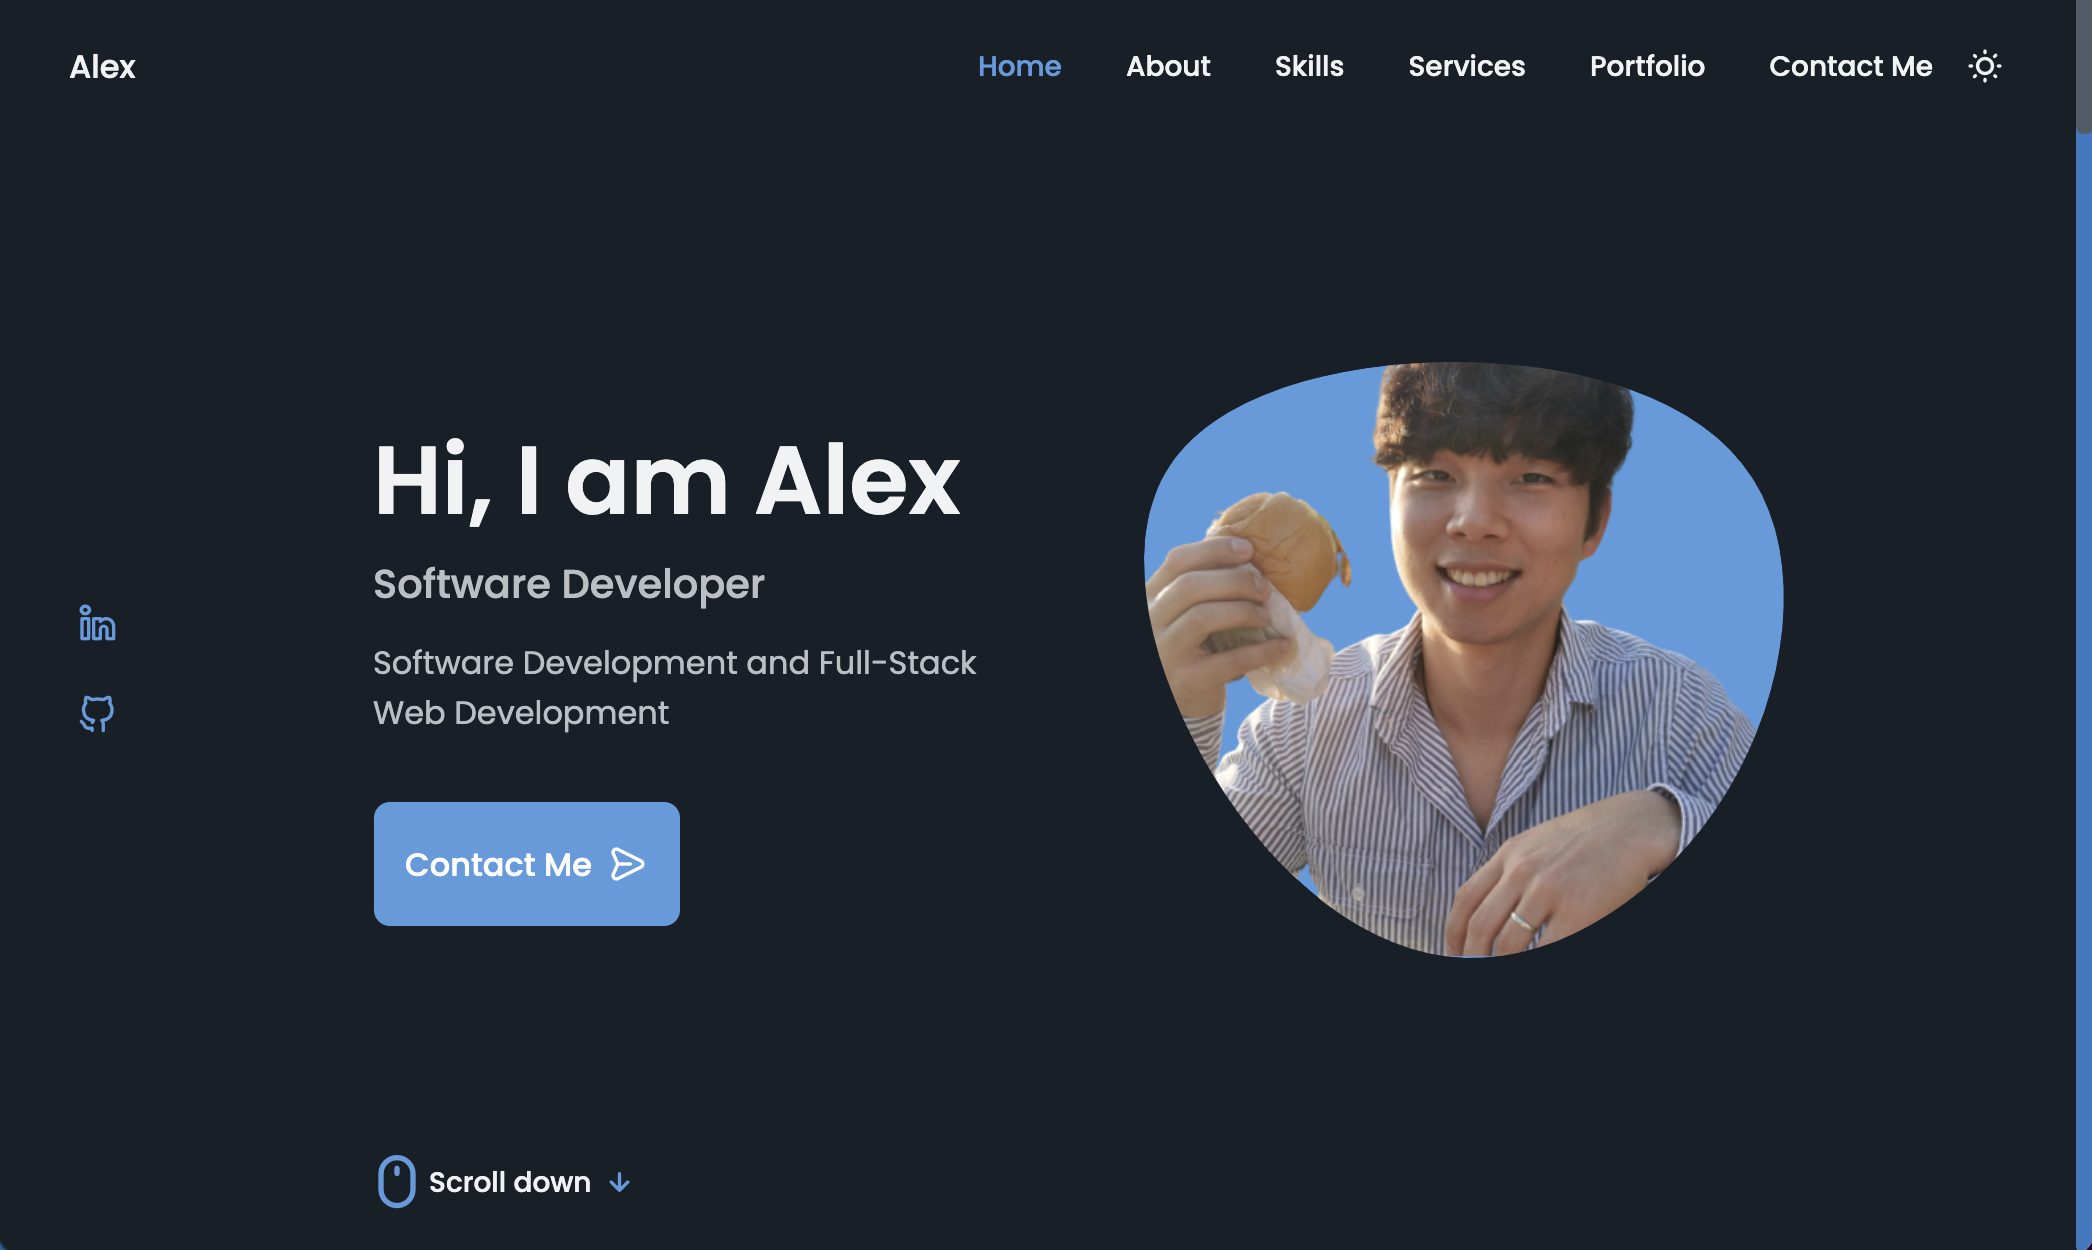
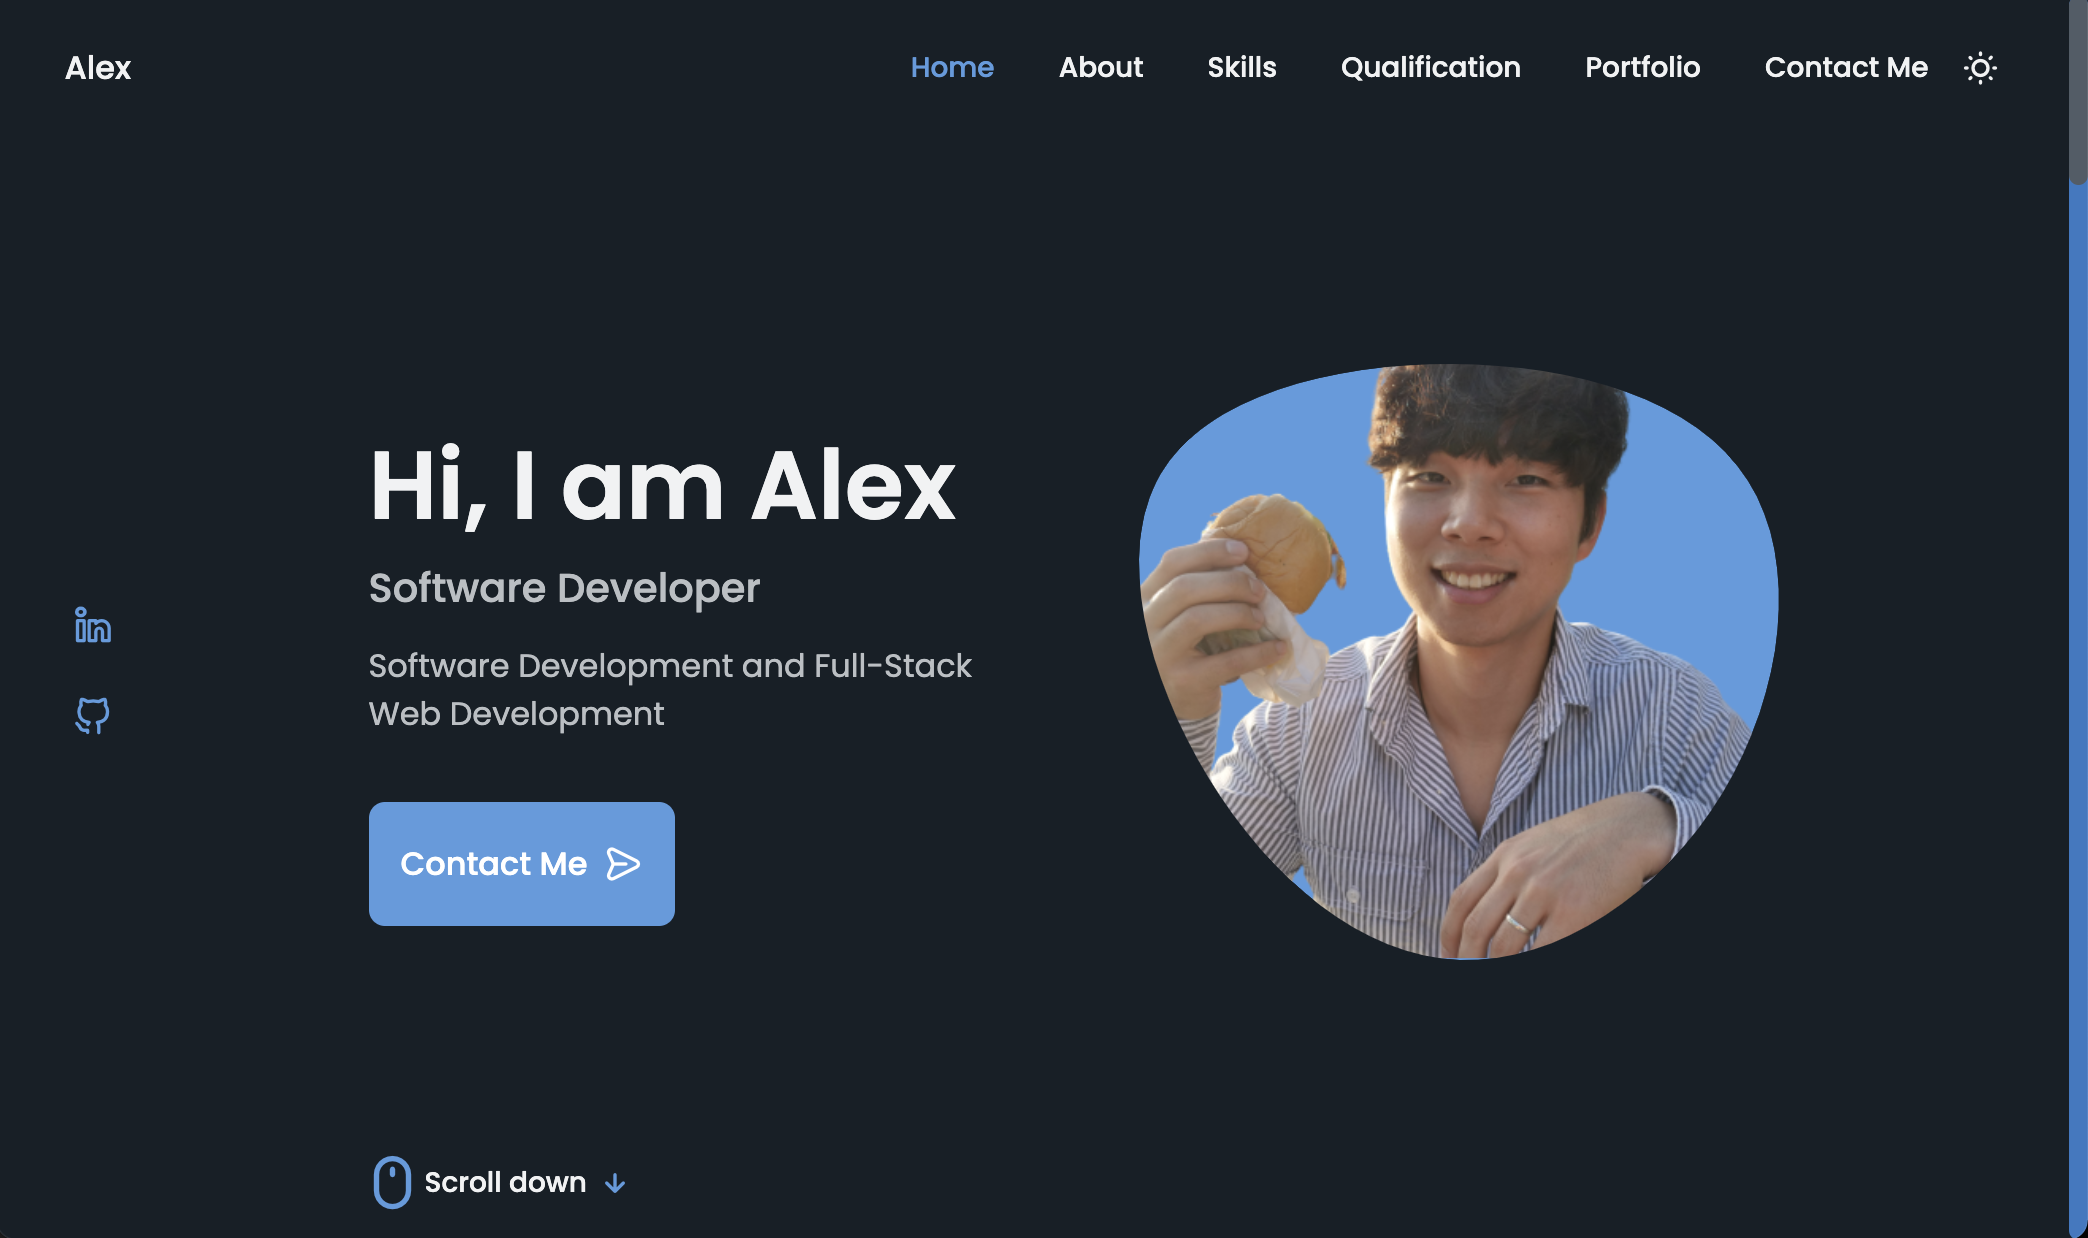
Bug fixes, changes and updates.

diff --git a/index.html b/index.html
@@ -42,8 +42,8 @@
               </a>
             </li>
             <li class="nav__item">
-              <a href="#services" class="nav__link">
-                <i class="uil uil-briefcase-alt nav__icon"></i> Services
+              <a href="#qualification" class="nav__link">
+                <i class="uil uil-briefcase-alt nav__icon"></i> Qualification
               </a>
             </li>
             <li class="nav__item">
@@ -153,7 +153,7 @@
             </p>
             <div class="about__info">
               <div>
-                <span class="about__info-title">02+ </span>
+                <span class="about__info-title">3+ </span>
                 <span class="about__info-name"
                   >years <br />
                   experience
@@ -161,17 +161,17 @@
               </div>
 
               <div>
-                <span class="about__info-title">10+ </span>
+                <span class="about__info-title">15+ </span>
                 <span class="about__info-name"
                   >Completed <br />
                   project
                 </span>
               </div>
               <div>
-                <span class="about__info-title">02+ </span>
+                <span class="about__info-title">0 </span>
                 <span class="about__info-name"
                   >Companies <br />
-                  worked
+                  worked :(
                 </span>
               </div>
             </div>
@@ -211,37 +211,26 @@
                 <div class="skills__data">
                   <div class="skills__titles">
                     <h3 class="skills__name">HTML</h3>
-                    <span class="skills__number">90%</span>
-                  </div>
-                  <div class="skills__bar">
-                    <span class="skills__percentage skills__html"></span>
                   </div>
                 </div>
                 <div class="skills__data">
                   <div class="skills__titles">
                     <h3 class="skills__name">CSS</h3>
-                    <span class="skills__number">70%</span>
-                  </div>
-                  <div class="skills__bar">
-                    <span class="skills__percentage skills__css"></span>
                   </div>
                 </div>
                 <div class="skills__data">
                   <div class="skills__titles">
                     <h3 class="skills__name">Javascript</h3>
-                    <span class="skills__number">95%</span>
                   </div>
-                  <div class="skills__bar">
-                    <span class="skills__percentage skills__js"></span>
+                </div>
+                <div class="skills__data">
+                  <div class="skills__titles">
+                    <h3 class="skills__name">Typescript</h3>
                   </div>
                 </div>
                 <div class="skills__data">
                   <div class="skills__titles">
                     <h3 class="skills__name">React</h3>
-                    <span class="skills__number">80%</span>
-                  </div>
-                  <div class="skills__bar">
-                    <span class="skills__percentage skills__react"></span>
                   </div>
                 </div>
               </div>
@@ -262,28 +251,26 @@
                 <div class="skills__data">
                   <div class="skills__titles">
                     <h3 class="skills__name">Node.Js</h3>
-                    <span class="skills__number">60%</span>
                   </div>
-                  <div class="skills__bar">
-                    <span class="skills__percentage skills__node"></span>
+                </div>
+                <div class="skills__data">
+                  <div class="skills__titles">
+                    <h3 class="skills__name">Express.Js</h3>
                   </div>
                 </div>
                 <div class="skills__data">
                   <div class="skills__titles">
                     <h3 class="skills__name">Firebase</h3>
-                    <span class="skills__number">80%</span>
-                  </div>
-                  <div class="skills__bar">
-                    <span class="skills__percentage skills__firebase"></span>
                   </div>
                 </div>
                 <div class="skills__data">
                   <div class="skills__titles">
-                    <h3 class="skills__name">Python</h3>
-                    <span class="skills__number">70%</span>
+                    <h3 class="skills__name">PostgreSQL</h3>
                   </div>
-                  <div class="skills__bar">
-                    <span class="skills__percentage skills__python"></span>
+                </div>
+                <div class="skills__data">
+                  <div class="skills__titles">
+                    <h3 class="skills__name">GraphQL</h3>
                   </div>
                 </div>
               </div>
@@ -293,7 +280,7 @@
       </section>
 
       <!--==================== QUALIFICATION ====================-->
-      <section class="qualification section">
+      <section class="qualification section" id="qualification">
         <h2 class="section__title">Qualification</h2>
         <span class="section__subtitle">My personal journey</span>
 
@@ -451,147 +438,11 @@
       </section>
 
       <!--==================== SERVICES ====================-->
-      <section class="services section" id="services">
+      <!-- <section class="services section" id="services">
         <h2 class="section__title">Services</h2>
         <span class="section__subtitle">What I offer</span>
         <div class="services__container container grid">
-          <!-- Services 1-->
-          <div class="services__content">
-            <div>
-              <i class="uil uil-web-grid services__icon"></i>
-              <h3 class="services__title">
-                UI UX <br />
-                Designer
-              </h3>
-            </div>
-
-            <span
-              class="button button--flex button--small button--link services__button"
-              >View More
-              <i class="uil uil-arrow-right button__icon"></i>
-            </span>
-
-            <div class="services__modal">
-              <div class="services__modal-content">
-                <h4 class="services__modal-title">
-                  UI/UX <br />
-                  Designer
-                </h4>
-                <i class="uil uil-times services__modal-close"></i>
-
-                <ul class="services__modal-services grid">
-                  <li class="services__modal-service">
-                    <i class="uil uil-check-circle services__modal-icon"></i>
-                    <p>I develop the user interface</p>
-                  </li>
-                  <li class="services__modal-service">
-                    <i class="uil uil-check-circle services__modal-icon"></i>
-                    <p>Web page development</p>
-                  </li>
-                  <li class="services__modal-service">
-                    <i class="uil uil-check-circle services__modal-icon"></i>
-                    <p>I create ux element interactions</p>
-                  </li>
-                  <li class="services__modal-service">
-                    <i class="uil uil-check-circle services__modal-icon"></i>
-                    <p>I position your company brand</p>
-                  </li>
-                </ul>
-              </div>
-            </div>
-          </div>
-          <!-- Services 2-->
-          <div class="services__content">
-            <div>
-              <i class="uil uil-arrow services__icon"></i>
-              <h3 class="services__title">
-                Frontend <br />
-                Developer
-              </h3>
-            </div>
-
-            <span
-              class="button button--flex button--small button--link services__button"
-              >View More
-              <i class="uil uil-arrow-right button__icon"></i>
-            </span>
-
-            <div class="services__modal">
-              <div class="services__modal-content">
-                <h4 class="services__modal-title">
-                  Frontend <br />
-                  Developer
-                </h4>
-                <i class="uil uil-times services__modal-close"></i>
-
-                <ul class="services__modal-services grid">
-                  <li class="services__modal-service">
-                    <i class="uil uil-check-circle services__modal-icon"></i>
-                    <p>I develop the user interface</p>
-                  </li>
-                  <li class="services__modal-service">
-                    <i class="uil uil-check-circle services__modal-icon"></i>
-                    <p>Web page development</p>
-                  </li>
-                  <li class="services__modal-service">
-                    <i class="uil uil-check-circle services__modal-icon"></i>
-                    <p>I create ux element interactions</p>
-                  </li>
-                  <li class="services__modal-service">
-                    <i class="uil uil-check-circle services__modal-icon"></i>
-                    <p>I position your company brand</p>
-                  </li>
-                </ul>
-              </div>
-            </div>
-          </div>
-          <!-- Services 3-->
-          <div class="services__content">
-            <div>
-              <i class="uil uil-pen services__icon"></i>
-              <h3 class="services__title">
-                Branding <br />
-                Designer
-              </h3>
-            </div>
-
-            <span
-              class="button button--flex button--small button--link services__button"
-              >View More
-              <i class="uil uil-arrow-right button__icon"></i>
-            </span>
-
-            <div class="services__modal">
-              <div class="services__modal-content">
-                <h4 class="services__modal-title">
-                  UI/UX <br />
-                  Designer
-                </h4>
-                <i class="uil uil-times services__modal-close"></i>
-
-                <ul class="services__modal-services grid">
-                  <li class="services__modal-service">
-                    <i class="uil uil-check-circle services__modal-icon"></i>
-                    <p>I develop the user interface</p>
-                  </li>
-                  <li class="services__modal-service">
-                    <i class="uil uil-check-circle services__modal-icon"></i>
-                    <p>Web page development</p>
-                  </li>
-                  <li class="services__modal-service">
-                    <i class="uil uil-check-circle services__modal-icon"></i>
-                    <p>I create ux element interactions</p>
-                  </li>
-                  <li class="services__modal-service">
-                    <i class="uil uil-check-circle services__modal-icon"></i>
-                    <p>I position your company brand</p>
-                  </li>
-                </ul>
-              </div>
-            </div>
-          </div>
-        </div>
-      </section>
+          <-- Services 1-->
 
       <!--==================== PORTFOLIO ====================-->
       <section class="portfolio section" id="portfolio">
@@ -661,7 +512,7 @@
                   photos or videos to create a timeline for private or public.
                 </p>
                 <a
-                  href="#"
+                  href="http://fableoftwo.com"
                   class="button button--flex button--small portfolio__button"
                 >
                   Demo
@@ -682,26 +533,6 @@
           <div class="swiper-pagination"></div>
         </div>
       </section>
-
-      <!--==================== PROJECT IN MIND ====================-->
-      <!-- <section class="project section">
-        <div class="project__bg">
-          <div class="project__container container grid">
-            <div class="project__data">
-              <h2 class="project__title">Have a new project in mind?</h2>
-              <p class="project__description">
-                Contact me now and get a 20% discount!
-              </p>
-              <a href="#" class="button button--flex button--white">
-                Contact Me
-                <i class="uil uil-message project__icon button__icon"></i>
-              </a>
-            </div>
-
-            <img src="assets/img/project.png" alt="" class="project__img" />
-          </div>
-        </div>
-      </section> -->
 
       <!--==================== TESTIMONIAL ====================-->
       <section class="testimonial section"></section>
@@ -784,13 +615,23 @@
 
           <ul class="footer__links">
             <li>
-              <a href="#services" class="footer__link">Services</a>
+              <a href="#home" class="footer__link">Home</a>
             </li>
+            <li>
+              <a href="#about" class="footer__link">About</a>
+            </li>
+            <li>
+              <a href="#skills" class="footer__link">Skills</a>
+            </li>
+            <li>
+              <a href="#qualification" class="footer__link">Qualification</a>
+            </li>
+
             <li>
               <a href="#portfolio" class="footer__link">Portfolio</a>
             </li>
             <li>
-              <a href="#contact" class="footer__link">ContactMe</a>
+              <a href="#contact" class="footer__link">Contact</a>
             </li>
           </ul>
         </div>

diff --git a/assets/css/styles.css b/assets/css/styles.css
@@ -433,7 +433,7 @@ a {
 .skills__header {
   display: flex;
   align-items: center;
-  margin-bottom: var(--mb-2-5);
+  margin-bottom: var(--mb-1-5);
   cursor: pointer;
 }
 .skills__icon,
@@ -460,7 +460,7 @@ a {
   transition: 0.4s;
 }
 .skills__list {
-  row-gap: 1.5rem;
+  row-gap: 0.75rem;
   padding-left: 2.7rem;
 }
 .skills__titles {
